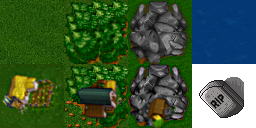
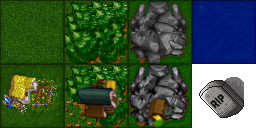
new tiles, vignette, night/day

Changed region(s): [[0.0, 0.0, 1.0, 1.0]]

diff --git a/LOCC/GameManager.cpp b/LOCC/GameManager.cpp
@@ -48,6 +48,14 @@ void CGameManager::NextPhase(void)
 	int numrows= CTileManager::GetInstance()->GetNumRows();
 
 	m_nPhaseCount++;
+	if (m_nCurrentLevel != 5)
+	{
+		if (GetCurrentTurn() % 2 == 0)
+			CGameplayState::GetInstance()->SetVignette(_T("vignette_night"));
+		else
+			CGameplayState::GetInstance()->SetVignette(_T("vignette"));
+	}
+
 	if (m_nCurrentPhase == GP_MOVE)
 	{
 		CAIManager::GetInstance()->BeginAttack();
@@ -242,6 +250,18 @@ void CGameManager::SaveGame(int nSlot)
 	pRoot->SetAttribute("phase", m_nCurrentPhase);
 	pRoot->SetAttribute("currPlayer", m_pCurrentPlayer->GetPlayerID());
 
+	time_t now = time(0);
+	struct tm tstruct;
+	char buf[80];
+	tstruct = *localtime(&now);
+
+	strftime(buf, sizeof(buf), "%Y-%m-%d.%X", &tstruct);
+
+	std::string time = buf;
+
+	pRoot->SetAttribute("date", time.c_str());
+
+
 	TiXmlElement* pMapMods = new TiXmlElement("MapModifications");
 	pMapMods->SetAttribute("numModifications", m_vMapMods.size());
 	pRoot->LinkEndChild(pMapMods);
@@ -268,7 +288,7 @@ void CGameManager::SaveGame(int nSlot)
 		pPlayer->SetAttribute("AP", m_vPlayers[i]->GetAP());
 		pPlayer->SetAttribute("wood", m_vPlayers[i]->GetWood());
 		pPlayer->SetAttribute("metal", m_vPlayers[i]->GetMetal());
-
+	
 		// Game Stats!
 
 		TiXmlElement* pStats = new TiXmlElement("Stats");
@@ -823,7 +843,12 @@ void CGameManager::NewGame(string levelstring, int mapint)
 				}
 			}
 		}
+		CGameplayState::GetInstance()->SetVignette(_T("vignette_snow"));
 	}	
+	else
+	{
+		CGameplayState::GetInstance()->SetVignette(_T("vignette"));
+	}
 }
 
 int CGameManager::GetCurrentTurn(void)

diff --git a/LOCC/GameplayState.cpp b/LOCC/GameplayState.cpp
@@ -1994,13 +1994,23 @@ void CGameplayState::Render(void)
 	y-=18;
 	RECT diamondRect = {x- GetCamOffsetX(), y -GetCamOffsetY(), nFakeTileWidth, nFakeTileHeight };
 
+
 	if (m_bIsMoving)
 		CGraphicsManager::GetInstance()->DrawWireframeDiag(diamondRect, 0, 255, 0);
 	else if (m_bIsTargeting)
 		CGraphicsManager::GetInstance()->DrawWireframeDiag(diamondRect, 255, 0, 0);
 	else
-		CGraphicsManager::GetInstance()->DrawWireframeDiag(diamondRect, 255, 255, 255);
+	{
+		if (CGameManager::GetInstance()->GetCurrentLevel() != 5)
+		{
+		CGraphicsManager::GetInstance()->DrawWireframeDiag(diamondRect, 255, 255, 255 );
+		}
+		else
+		{
+		CGraphicsManager::GetInstance()->DrawWireframeDiag(diamondRect, 20, 20, 20 );
 
+		}
+	}
 	CObjectManager::GetInstance()->RenderAllObjects();
 	CSGD_Direct3D::GetInstance()->GetSprite()->Flush();
 
@@ -2085,6 +2095,12 @@ void CGameplayState::Render(void)
 			break;
 		}
 	}
+
+ /// BEGINNING OF INTERFACE RENDER
+	CSGD_TextureManager::GetInstance()->Draw(CGraphicsManager::GetInstance()->GetID(m_szChosenVignette), 0, 0, 1.0f, 1.0f);
+
+
+
 	CSGD_TextureManager::GetInstance()->Draw(CGraphicsManager::GetInstance()->GetID(_T("tooltip")), 200, m_nTooltipOffsetY, 1.2f, 1.2f);
 
 	if( m_pSelectedUnit != nullptr )

diff --git a/LOCC/SaveSlotState.cpp b/LOCC/SaveSlotState.cpp
@@ -318,6 +318,8 @@ struct SlotDataStruct
 {
 	int nMapID, nCurrPlayer, nPhaseCount, nCurrPhase;
 
+	std::string datetime;
+
 	struct PlayerData
 	{
 		int nAIControlled;
@@ -370,6 +372,7 @@ void CSaveSlotState::ReadSlot(int nSlot)
 		pRoot->QueryIntAttribute("phaseNumber", &s.nPhaseCount);
 		pRoot->QueryIntAttribute("phase", &s.nCurrPhase);
 
+		s.datetime = pRoot->Attribute("date");
 		TiXmlElement* pPlayers = pRoot->FirstChildElement("Players");
 		TiXmlElement* pPlayer = pPlayers->FirstChildElement("Player");
 
@@ -404,7 +407,12 @@ void CSaveSlotState::ReadSlot(int nSlot)
 		std::ostringstream woss;
 		woss << StringTable::GetInstance()->GetString("Slot ") << nSlot;
 		//CSGD_Direct3D::GetInstance()->DrawTextW((TCHAR*)woss.str().c_str(), 150 + xOffset , 80);
-		m_pBitmapFont.Print(woss.str().c_str(), 140 + xOffset, 80, 0.3f, drawColor);
+		m_pBitmapFont.Print(woss.str().c_str(), 150 + xOffset, 45, 0.3f, drawColor);
+
+		woss.str((""));
+		woss << s.datetime;
+		//CSGD_Direct3D::GetInstance()->DrawTextW((TCHAR*)woss.str().c_str(), 150 + xOffset , 80);
+		m_pBitmapFont.Print(woss.str().c_str(), 95 + xOffset, 80, 0.3f, drawColor);
 
 		woss.str((""));
 		woss << StringTable::GetInstance()->GetString("Map ID: ")<< s.nMapID;

diff --git a/LOCC/ObjectManager.cpp b/LOCC/ObjectManager.cpp
@@ -70,7 +70,11 @@ void CObjectManager::AddObject( CGameObject* pObject )
 	CPlayer* pGetPlayer = CGameManager::GetInstance()->GetPlayer(pUnit->GetPlayerID());
 	if (pUnit->GetType() != UT_ICEBLOCK && pUnit->GetType() != UT_CASTLE)
 	{
-		pGetPlayer->SetPopCap(pGetPlayer->GetPopCap()+1);
+		if (pUnit->GetType() == UT_CAVALRY)
+			pGetPlayer->SetPopCap(pGetPlayer->GetPopCap()+2);
+		else
+			pGetPlayer->SetPopCap(pGetPlayer->GetPopCap()+1);
+
 	}
 	pObject->AddRef();
 }
@@ -89,7 +93,14 @@ void CObjectManager::RemoveObject( CGameObject* pObject )
 		{
 			CPlayer* pGetPlayer = CGameManager::GetInstance()->GetPlayer((dynamic_cast<CUnit*>((*iter)))->GetPlayerID());
 
-			pGetPlayer->SetPopCap(pGetPlayer->GetPopCap()- 1);
+			CUnit* pUnit = dynamic_cast<CUnit*>(pObject);
+			if (pUnit->GetType() != UT_ICEBLOCK && pUnit->GetType() != UT_CASTLE)
+			{
+				if (pUnit->GetType() == UT_CAVALRY)
+					pGetPlayer->SetPopCap(pGetPlayer->GetPopCap()-2);
+				else
+					pGetPlayer->SetPopCap(pGetPlayer->GetPopCap()-1);
+			}
 			m_pObjectList.erase(iter);
 
 			pObject->Release();

diff --git a/LOCC/Game.cpp b/LOCC/Game.cpp
@@ -103,6 +103,10 @@ void CGame::Initialize(HWND hWnd, HINSTANCE hInstance,
 	CGraphicsManager::GetInstance()->LoadImageW(_T("Assets/Menus/multiplayer.png"), _T("multiplayer"), 0UL);
 	CGraphicsManager::GetInstance()->LoadImageW(_T("Assets/Menus/blackpixel.png"), _T("blackpixel"), 0UL);
 	CGraphicsManager::GetInstance()->LoadImageW(_T("Assets/Menus/tutorial.png"), _T("tutorial"), 0UL);
+	CGraphicsManager::GetInstance()->LoadImageW(_T("Assets/HUD/vignette.png"), _T("vignette"), 0UL);
+	CGraphicsManager::GetInstance()->LoadImageW(_T("Assets/HUD/vignette_night.png"), _T("vignette_night"), 0UL);
+	CGraphicsManager::GetInstance()->LoadImageW(_T("Assets/HUD/vignette_snow.png"), _T("vignette_snow"), 0UL);
+	
 	
 	CGraphicsManager::GetInstance()->LoadImageW(_T("Assets/HUD/Page1.png"), _T("Page1"), 0UL);
 	CGraphicsManager::GetInstance()->LoadImageW(_T("Assets/HUD/Page2.png"), _T("Page2"), 0UL);

diff --git a/LOCC/PauseState.cpp b/LOCC/PauseState.cpp
@@ -175,5 +175,7 @@ void CPauseState::Render(void)
 	m_pBitmapFont.Print(StringTable::GetInstance()->GetString("Exit to Menu")
 		.c_str(), 350, 300, 0.4f, D3DCOLOR_XRGB(255, 255, 255));
 
-	CGraphicsManager::GetInstance()->DrawArrow(330, 190 + m_nVerticalChoice * 30, 255, 255, 255);
+	CGraphicsManager::GetInstance()->DrawArrow(330, 190 + m_nVerticalChoice * 30, 0, 0, 0);
+	CGraphicsManager::GetInstance()->DrawArrow(328, 188 + m_nVerticalChoice * 30, 255, 255, 255);
+
 }

diff --git a/LOCC/GameplayState.h b/LOCC/GameplayState.h
@@ -36,6 +36,9 @@ public:
 
 	int GetSelectedSpell( void ) { return m_nSelectedSpell; }
 	void SetMusicIncrease(float temp) {MusicIncrease = temp;}
+
+	void SetVignette(TSTRING vignette) { m_szChosenVignette = vignette;}
+	TSTRING GetVignette(void) { return m_szChosenVignette;}
 private:
 
 	class ASNode
@@ -49,6 +52,7 @@ private:
 		int nG;
 	};
 
+	TSTRING m_szChosenVignette;
 	int nStoredUnitIndex;
 	CGameplayState(void);
 	~CGameplayState(void);

diff --git a/LOCC/StdAfx.h b/LOCC/StdAfx.h
@@ -62,7 +62,7 @@ using std::string;
 
 	enum CAPFLAG {F_RED_CAPTURED,F_BLUE_CAPTURED,F_RED_CAPTURING,F_BLUE_CAPTURING};
 	// resource amounts
-	const int POP_PER_FARM = 6;
+	const int POP_PER_FARM = 4;
 	const int METAL_PER_MINE = 10;
 	const int WOOD_PER_MILL = 10;
 	const int AP_PER_CAPTURE = 2;

diff --git a/LOCC/TileManager.cpp b/LOCC/TileManager.cpp
@@ -181,7 +181,7 @@ void CTileManager::Render( void )
             int y = (TWidth / 2 * i) + (THeight  / 2 * j);
 
 			// Tile culling
-			if (x > camX + 790)
+			if (x > camX + 810)
 				continue;
 			if (x < camX - 90)
 				continue;

diff --git a/LOCC/GameManager.h b/LOCC/GameManager.h
@@ -71,6 +71,7 @@ public:
 	void SetRandomSeed(unsigned int un) { m_unrandomSeed = un;}
 	void SetExtraTurn( bool b ) { m_bExtraTurn = b; }
 
+	int GetCurrentLevel(void) { return m_nCurrentLevel;}
 private:
 
 	CGameManager(void);
